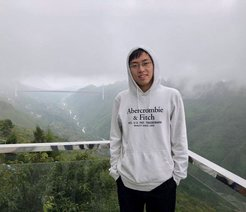
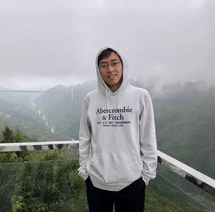
tweak images a little bit
now they are at least all circles :))

diff --git a/assets/css/styles.css b/assets/css/styles.css
@@ -1,0 +1,6 @@
+img.rounded-circle {
+      object-fit: cover;
+      object-position: center 20%;
+      width:100%;
+      aspect-ratio: 1 / 1;
+}
